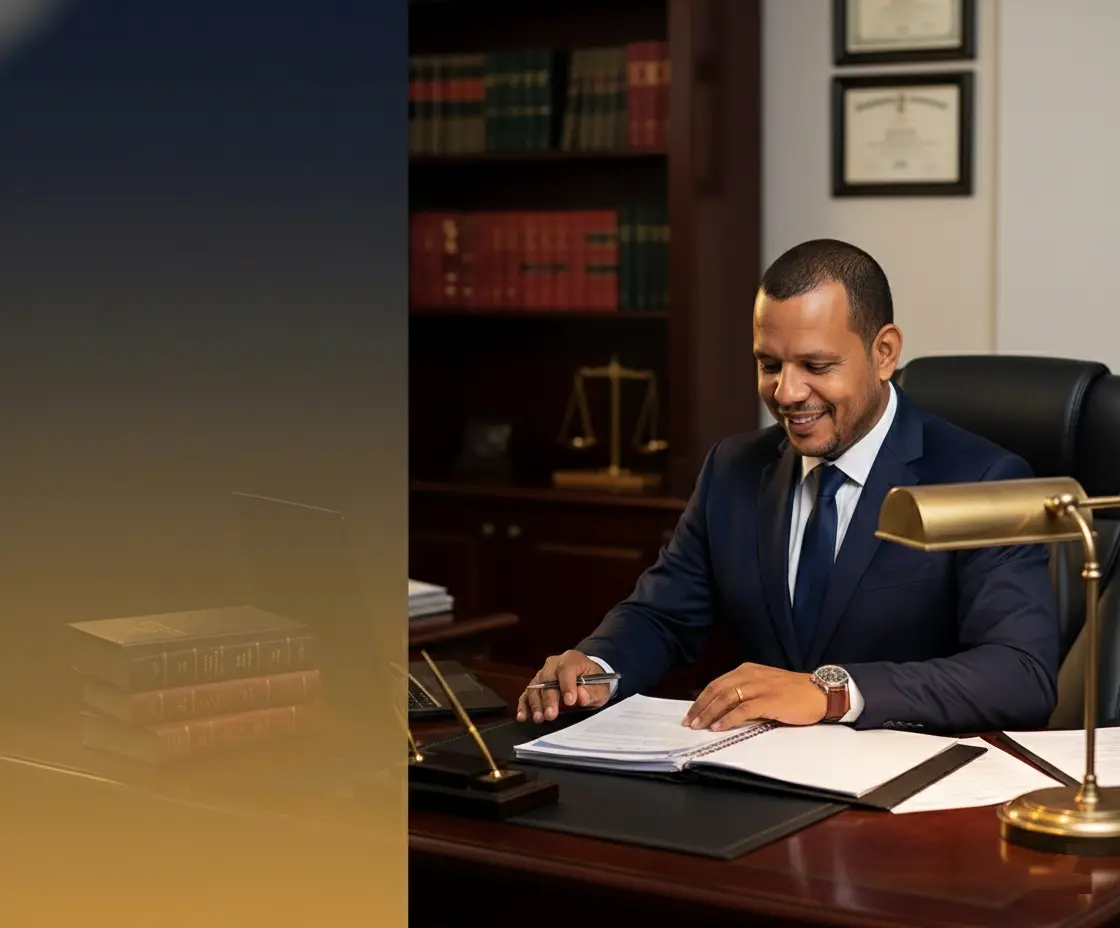
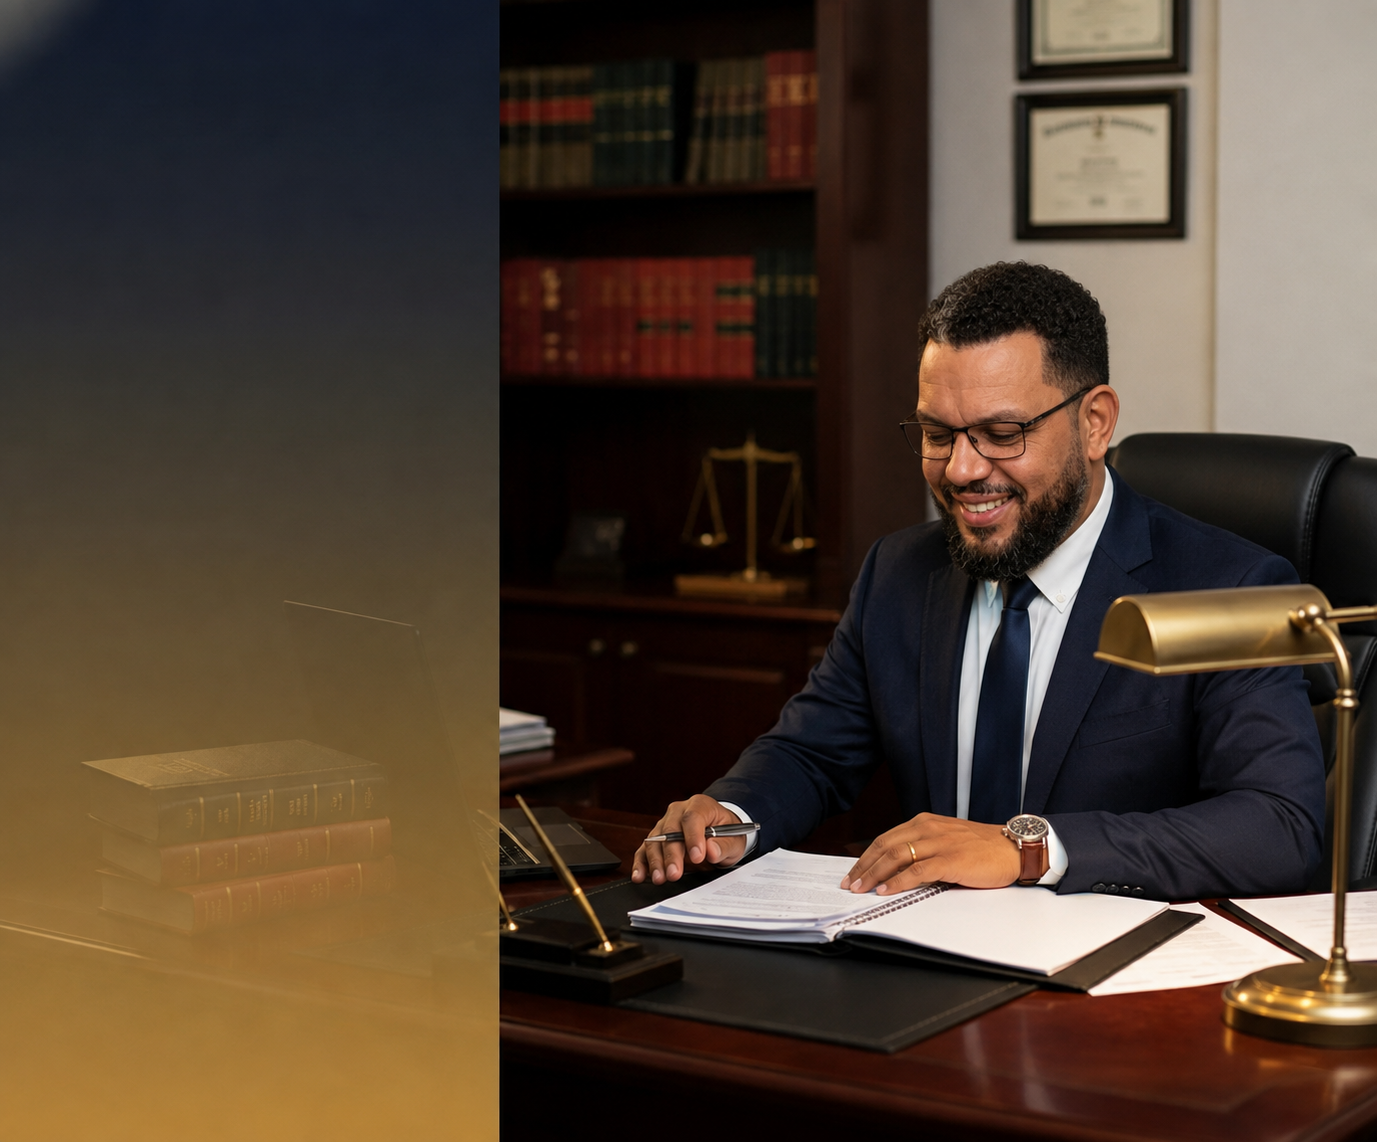
fix: imagem 2

diff --git a/src/pages/Home.tsx b/src/pages/Home.tsx
@@ -58,7 +58,7 @@ export default function Home() {
               </motion.h1>
 
               <motion.p
-                className="mt-6 max-w-2xl text-sm leading-relaxed text-primary-foreground/80 sm:text-base"
+                className="mt-6 max-w-1xl text-sm leading-relaxed text-primary-foreground/80 sm:text-base"
                 variants={fadeUp}
                 initial={reduce ? false : "hidden"}
                 animate={reduce ? false : "visible"}
